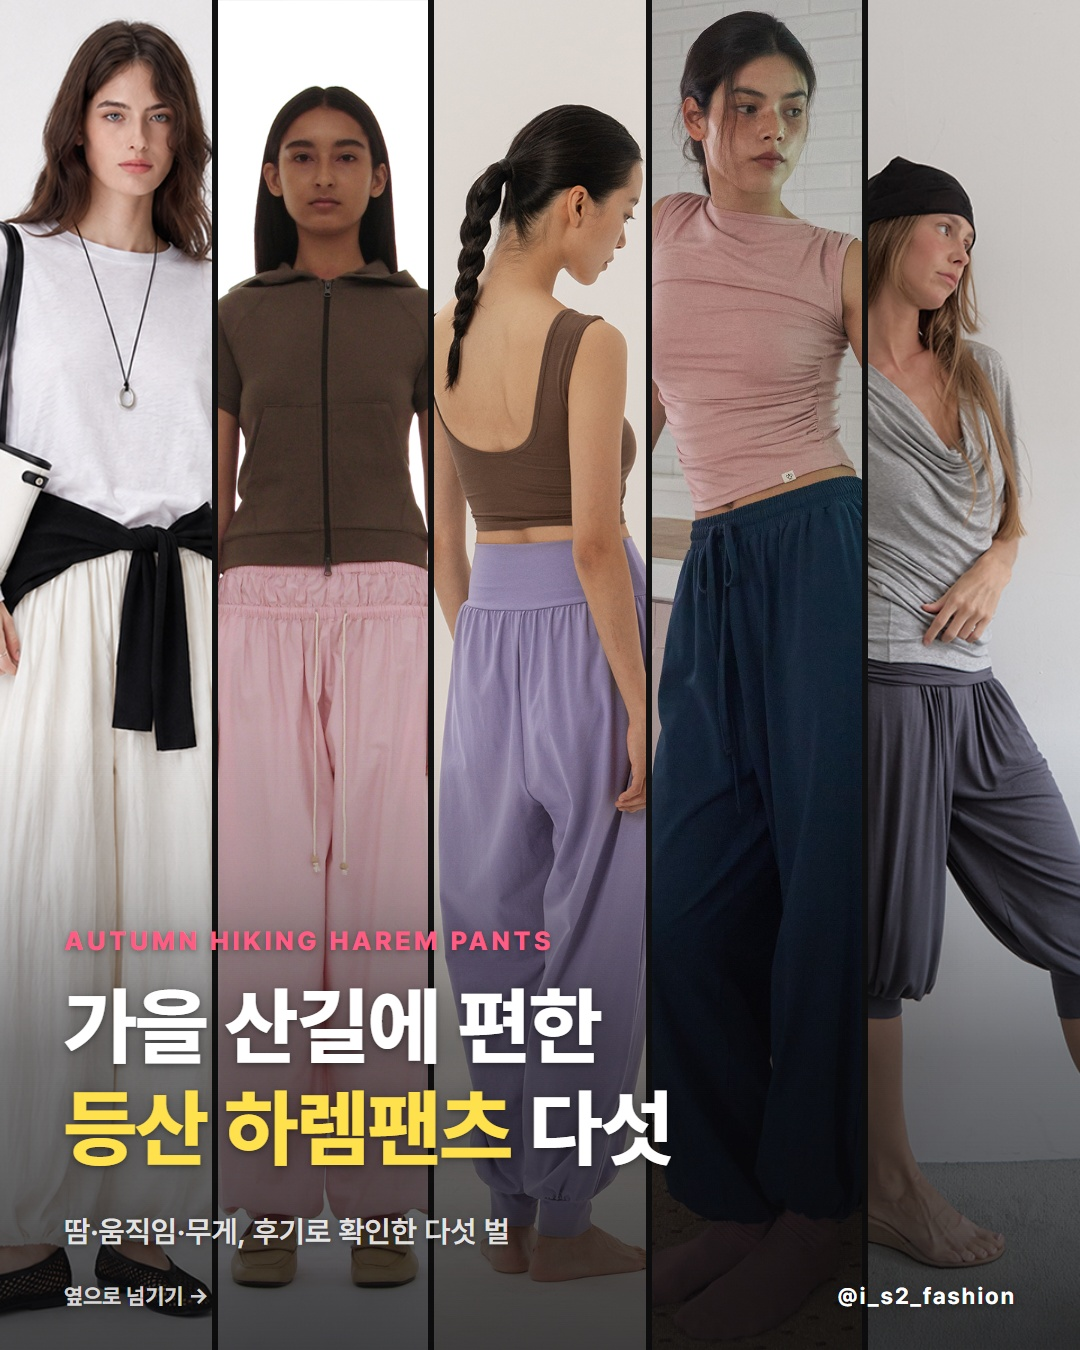
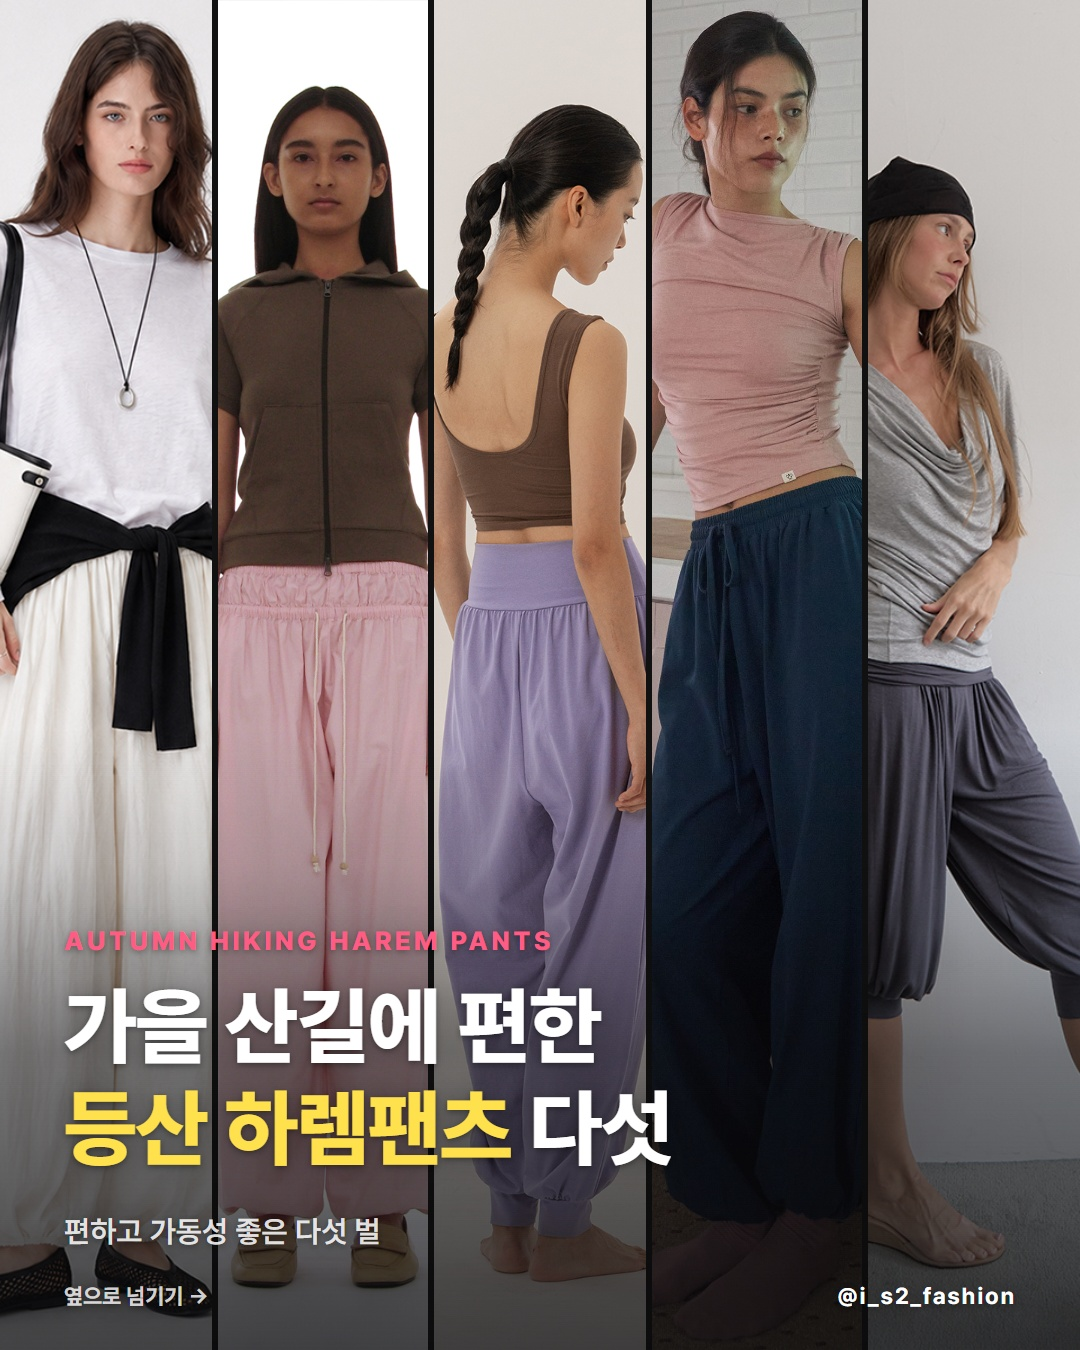
autopost: 20261007 가을 등산 하렘팬츠 — '편하고 가동성 좋은 다섯 벌'로 문구 정리, 파르티멘토 후기 교체

Changed region(s): [[0.0611, 0.9022, 0.4889, 0.9333]]

diff --git a/episodes/20261007 가을 등산 하렘팬츠/_preview.html b/episodes/20261007 가을 등산 하렘팬츠/_preview.html
@@ -5,14 +5,14 @@ h1{font-size:18px}.g{display:grid;grid-template-columns:repeat(auto-fit,minmax(2
 img{width:100%;display:block}pre{white-space:pre-wrap;background:#1e1e21;padding:16px;line-height:1.7}
 li.error{color:#ff6b81}li.warn{color:#ffd166}</style></head><body>
 <h1>20261007 가을 등산 하렘팬츠 — 미리보기</h1><ul><li class=warn>3번(6503202): 다른 몰 가격을 비교하지 못함(§2 최저가 확인 불가) — 다른 몰 상세 조회 실패(4003163): 29CM 상세 차단 — 이번 실행 중단(403 연속 3회)</li><li class=warn>5번(5971890): 다른 몰 가격을 비교하지 못함(§2 최저가 확인 불가) — 다른 몰 상세 조회 실패(3241294): 29CM 상세 차단 — 이번 실행 중단(403 연속 3회)</li><li class=warn>핸들 미검증으로 태그에서 뺀 브랜드: 로브로브, 아수라, 해피요기즈, 소함소함</li></ul><div class="g"><img src="1.jpg?t=0" alt="1"><img src="2.jpg?t=0" alt="2"><img src="3.jpg?t=0" alt="3"><img src="4.jpg?t=0" alt="4"><img src="5.jpg?t=0" alt="5"><img src="6.jpg?t=0" alt="6"><img src="7.jpg?t=0" alt="7"></div>
-<h2>캡션</h2><pre>가을 등산 하렘팬츠는 산 아래서는 편했는데 오르막에서 땀이 차거나 밑단이 걸리면 그날로 옷장행이 됩니다 🍂
+<h2>캡션</h2><pre>가을 등산 하렘팬츠는 산 아래서는 편했는데 오르막에서 다리가 안 올라가거나 밑단이 걸리면 그날로 옷장행이 됩니다 🍂
 
-그래서 산에서 중요한 세 가지, 땀·움직임·무게를 후기에서 확인한 다섯 벌을 산길 강도 순서로 놓았습니다. 첫 장은 둘레길과 나들이에 맞는 도톰한 벌룬형이고, 장을 넘길수록 땀 나는 오르막에서도 잘 늘어난다는 요가용 조거로 갑니다. 다섯 벌 모두 밑단이 발목에서 모여 바짓단이 바위에 걸리지 않습니다.
+그래서 후기에서 편하고 가동성이 좋다고 확인된 다섯 벌을 산길 강도 순서로 놓았습니다. 첫 장은 둘레길과 나들이에 맞는 도톰한 벌룬형이고, 장을 넘길수록 오르막에서도 잘 늘어난다는 요가용 조거로 갑니다. 다섯 벌 모두 밑단이 발목에서 모여 바짓단이 바위에 걸리지 않습니다.
 
 산에 들고 가기 전에 알아 두면 좋은 것만 모았습니다 👖
 
 로브로브 플로우 하렘 팬츠 — 초겨울까지 편하게 입겠다는 후기가 있고, 주름이 모델컷처럼 잡히지 않아 조거 트레이닝복 같다는 후기도 있습니다
-파르티멘토 우먼 코튼 더블 웨이스트 하렘 팬츠 — 바스락거리는 얇은 소재라 시원하다는 후기, 발목 시보리가 더 조였으면 좋겠다는 후기, 라지는 길이는 맞지만 많이 컸다는 후기가 있습니다
+파르티멘토 우먼 코튼 더블 웨이스트 하렘 팬츠 — 집 앞에서도 여행에서도 편하다는 후기, 발목 시보리가 더 조였으면 좋겠다는 후기, 라지는 길이는 맞지만 많이 컸다는 후기가 있습니다
 아수라 폴드 하렘 팬츠 — 얇고 찰랑거려 가볍다는 후기, 접히는 부분이 종아리를 적당히 잡아 준다는 후기가 있고, 부들거리는 소재라 보풀 관리가 필요할 것 같다는 후기도 있습니다
 해피요기즈 Posa 와이드 하렘 팬츠 — 땀이 많아도 자국이 남지 않았다는 후기, 건조기에 돌려도 보풀이 안 났다는 후기가 있습니다
 소함소함 Setu 하렘 팬츠 — 땀 흡수가 잘 되고 활동할 때 잘 늘어난다는 후기, 키 큰 버전으로 사길 잘했다는 후기가 있고, 마감이 깔끔하지 않다는 단점 후기도 하나 있습니다

diff --git a/episodes/20261007 가을 등산 하렘팬츠/result.md b/episodes/20261007 가을 등산 하렘팬츠/result.md
@@ -6,14 +6,14 @@
 - **실험 번호**: #5 (브랜드 반응·공유)
 - **키워드**: 가을 등산 하렘팬츠 — 시즌어 '가을' · 품목어 '하렘팬츠'
 - **수요 근거**: 사용자 지정 키워드(10-07: '등산할 때 입으면 편한 하렘팬츠' + 시즌성). 10월 단풍 산행철, 서울 최저 12°·최고 22°. 무신사 여성 바지 랭킹엔 하렘 직접 진입 없음(벌룬·커브드 루즈핏만)
-- **축**: 산길 강도 순서 — 둘레길·나들이용(도톰한 벌룬) → 땀 나는 오르막용(잘 늘어나는 요가 조거). 후기에 적힌 쓰임 기준
-- **가설**: 하렘팬츠를 '요가복'에서 꺼내 가을 산행 장면에 놓고, 산에서 중요한 땀·움직임·무게를 후기로 확인해 주면 공유가 생긴다
+- **축**: 산길 강도 순서 — 둘레길·나들이용(도톰한 벌룬) → 오르막용(잘 늘어나는 요가 조거). 후기에 적힌 쓰임 기준
+- **가설**: 하렘팬츠를 '요가복'에서 꺼내 가을 산행 장면에 놓고, 편하고 가동성이 좋다는 후기로 뒷받침하면 공유가 생긴다
 - **바꾼 변수 (1개만)**: 키워드에 쓰임 장면(등산)을 넣고 캡션 첫 줄을 그 장면의 실패 경험으로 연다
 - **대조군**: 20260917 가을 부츠(도달 1,718·공유 1)
 - **판정 기준**: +72h 도달 200 이상 + 공유 1건 이상 · 유입 '기타' 비중 참고
 - **캡션 무드**: 정보·큐레이션형
 - **표지 유형**: 콜라주형(색 다섯)
-- **변수 오염·주의**: 같은 날 '가을 경량패딩' 회차도 승인 대기 — 하루 한 건만 게시 · 10-07 사용자 피드백으로 모어아웃·플리즈프로젝트를 해피요기즈·로브로브로 교체 · 키워드에 '등산'이 들어가지만 다섯 벌 모두 등산 후기는 없음(요가·일상 후기로 땀·신축성을 확인)
+- **변수 오염·주의**: 같은 날 '가을 경량패딩' 회차도 승인 대기 — 하루 한 건만 게시 · 10-07 사용자 피드백으로 모어아웃·플리즈프로젝트를 해피요기즈·로브로브로 교체 · 키워드에 '등산'이 들어가지만 다섯 벌 모두 등산 후기는 없음(요가·일상 후기로 편함·가동성을 확인)
 
 ## 2. 게시 전 검증
 - 자동 검사 결과:
